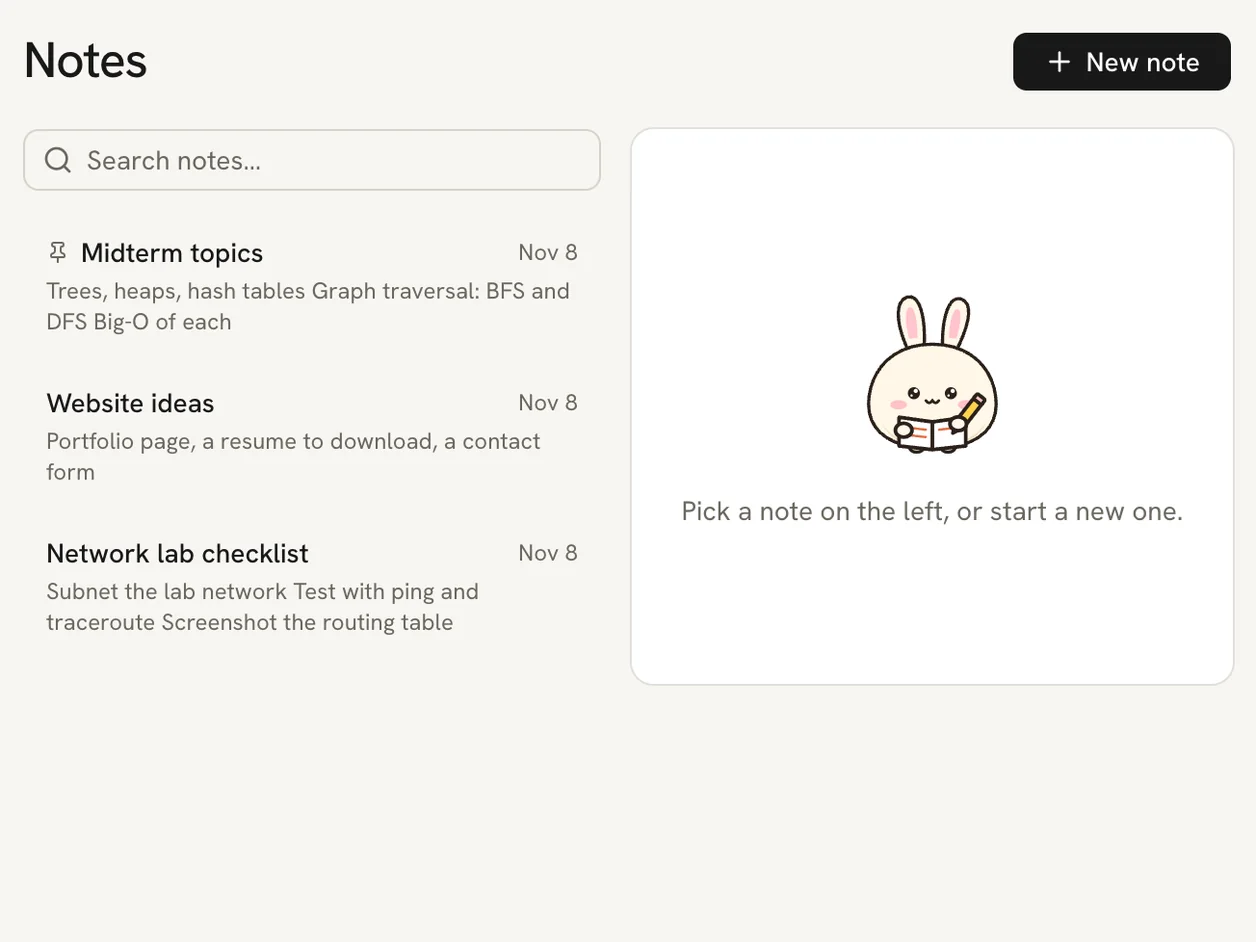
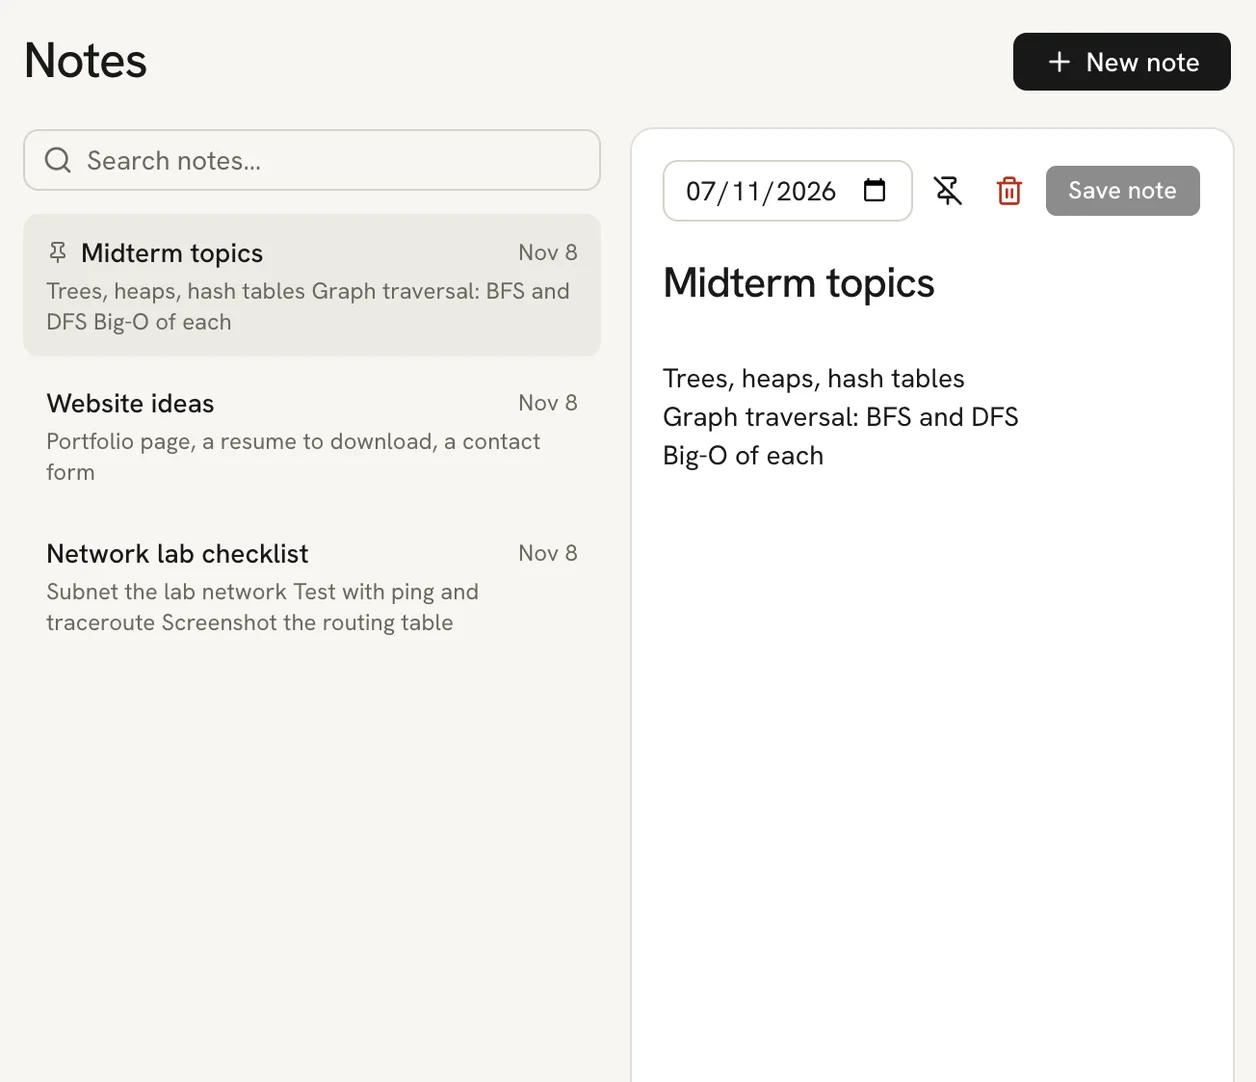
Portfolio: show the whole Notes screenshot in Services (no side cropping), with a note open

diff --git a/public/portfolio/th.html b/public/portfolio/th.html
@@ -53,6 +53,8 @@
 <link rel="modulepreload" href="/assets/moments/word-highlight/moment.js">
 <!-- page CSS: inside visuals only, and one --p-h per card group -->
 <style>
+  /* services picture: keep the screenshot's own shape so the app is never cropped at the sides */
+  #services .frame--fill { height: auto; flex: 0 0 auto; align-self: start; aspect-ratio: 1256 / 1082; min-height: 0; }
   #projects .panel { --p-h: 340px; }
   #projects .frame__img { object-position: 50% 0%; }
   /* the hero: one serif accent with an orange underline, the screen on an orange block, today's list floating */
@@ -235,7 +237,7 @@
             </ul>
           </div>
           <div class="frame frame--photo frame--fill span-6 start-7">
-            <img class="frame__img" src="/portfolio/img/jameswebpupu-notes.webp" alt="หน้าบันทึกของ jameswebpupu เปิดรายการหัวข้อสอบมิดเทอม" loading="lazy" width="1256" height="942" data-source="client" data-subject="jameswebpupu notes">
+            <img class="frame__img" src="/portfolio/img/jameswebpupu-notes.webp" alt="หน้าบันทึกของ jameswebpupu เปิดรายการหัวข้อสอบมิดเทอม" loading="lazy" width="1256" height="1082" data-source="client" data-subject="jameswebpupu notes">
           </div>
         </div>
     </div>

diff --git a/public/portfolio/index.html b/public/portfolio/index.html
@@ -53,6 +53,8 @@
 <link rel="modulepreload" href="/assets/moments/word-highlight/moment.js">
 <!-- page CSS: inside visuals only, and one --p-h per card group -->
 <style>
+  /* services picture: keep the screenshot's own shape so the app is never cropped at the sides */
+  #services .frame--fill { height: auto; flex: 0 0 auto; align-self: start; aspect-ratio: 1256 / 1082; min-height: 0; }
   #projects .panel { --p-h: 340px; }
   #projects .frame__img { object-position: 50% 0%; }
   /* the hero: one serif accent with an orange underline, the screen on an orange block, today's list floating */
@@ -235,7 +237,7 @@
             </ul>
           </div>
           <div class="frame frame--photo frame--fill span-6 start-7">
-            <img class="frame__img" src="/portfolio/img/jameswebpupu-notes.webp" alt="The notes page of jameswebpupu with a list of midterm topics open" loading="lazy" width="1256" height="942" data-source="client" data-subject="jameswebpupu notes">
+            <img class="frame__img" src="/portfolio/img/jameswebpupu-notes.webp" alt="The notes page of jameswebpupu with a list of midterm topics open" loading="lazy" width="1256" height="1082" data-source="client" data-subject="jameswebpupu notes">
           </div>
         </div>
     </div>
